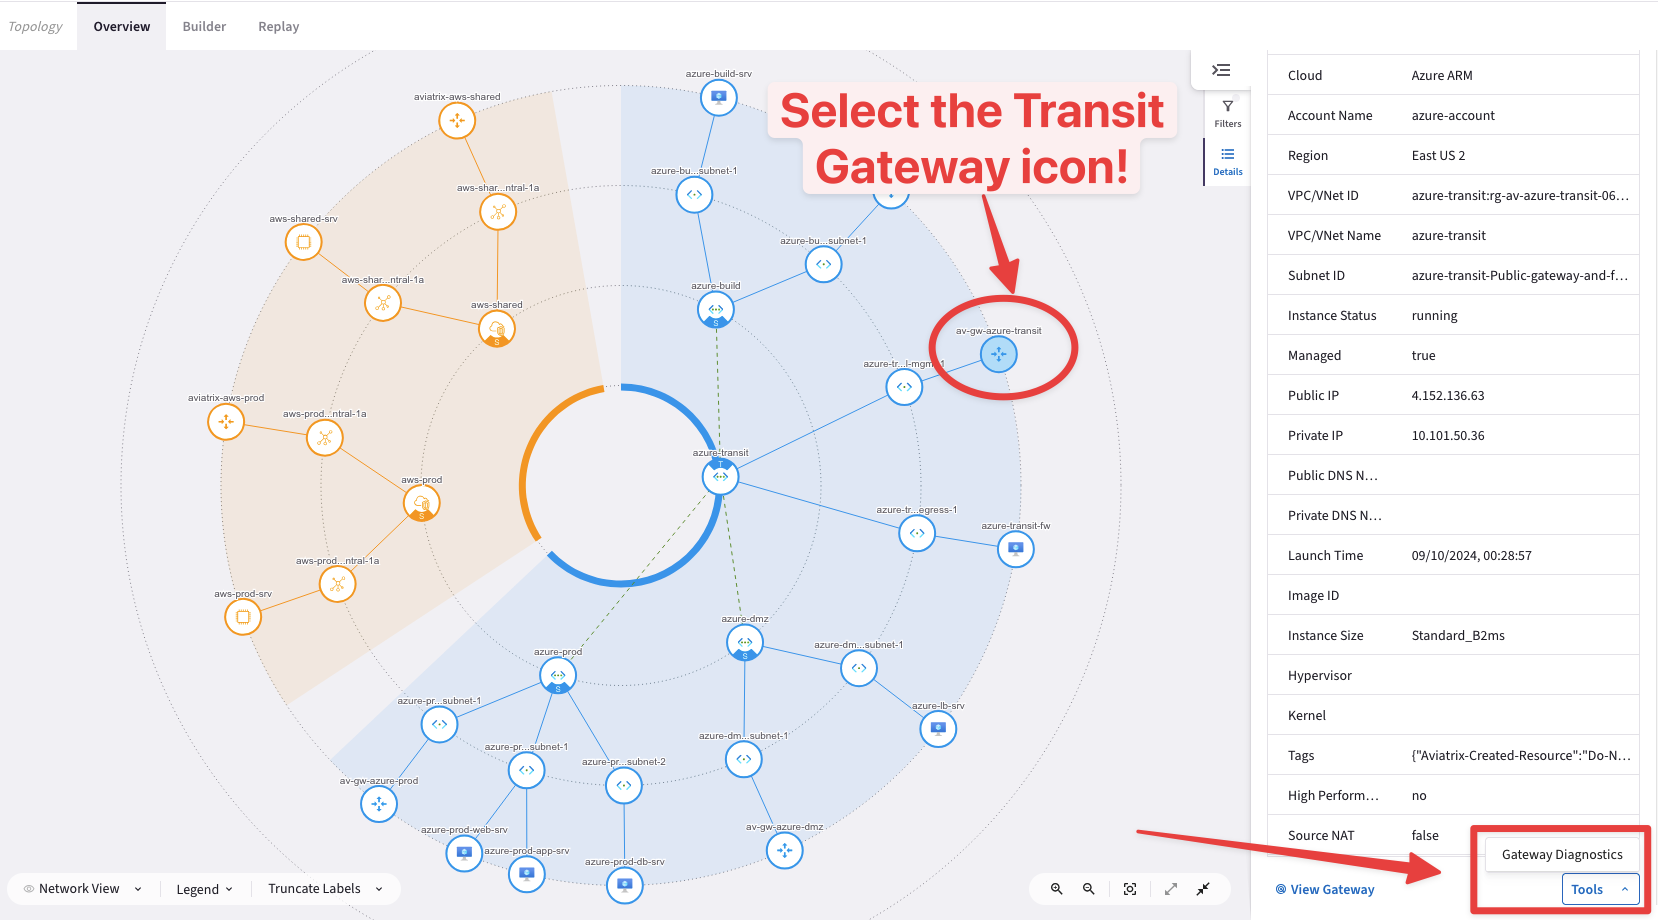
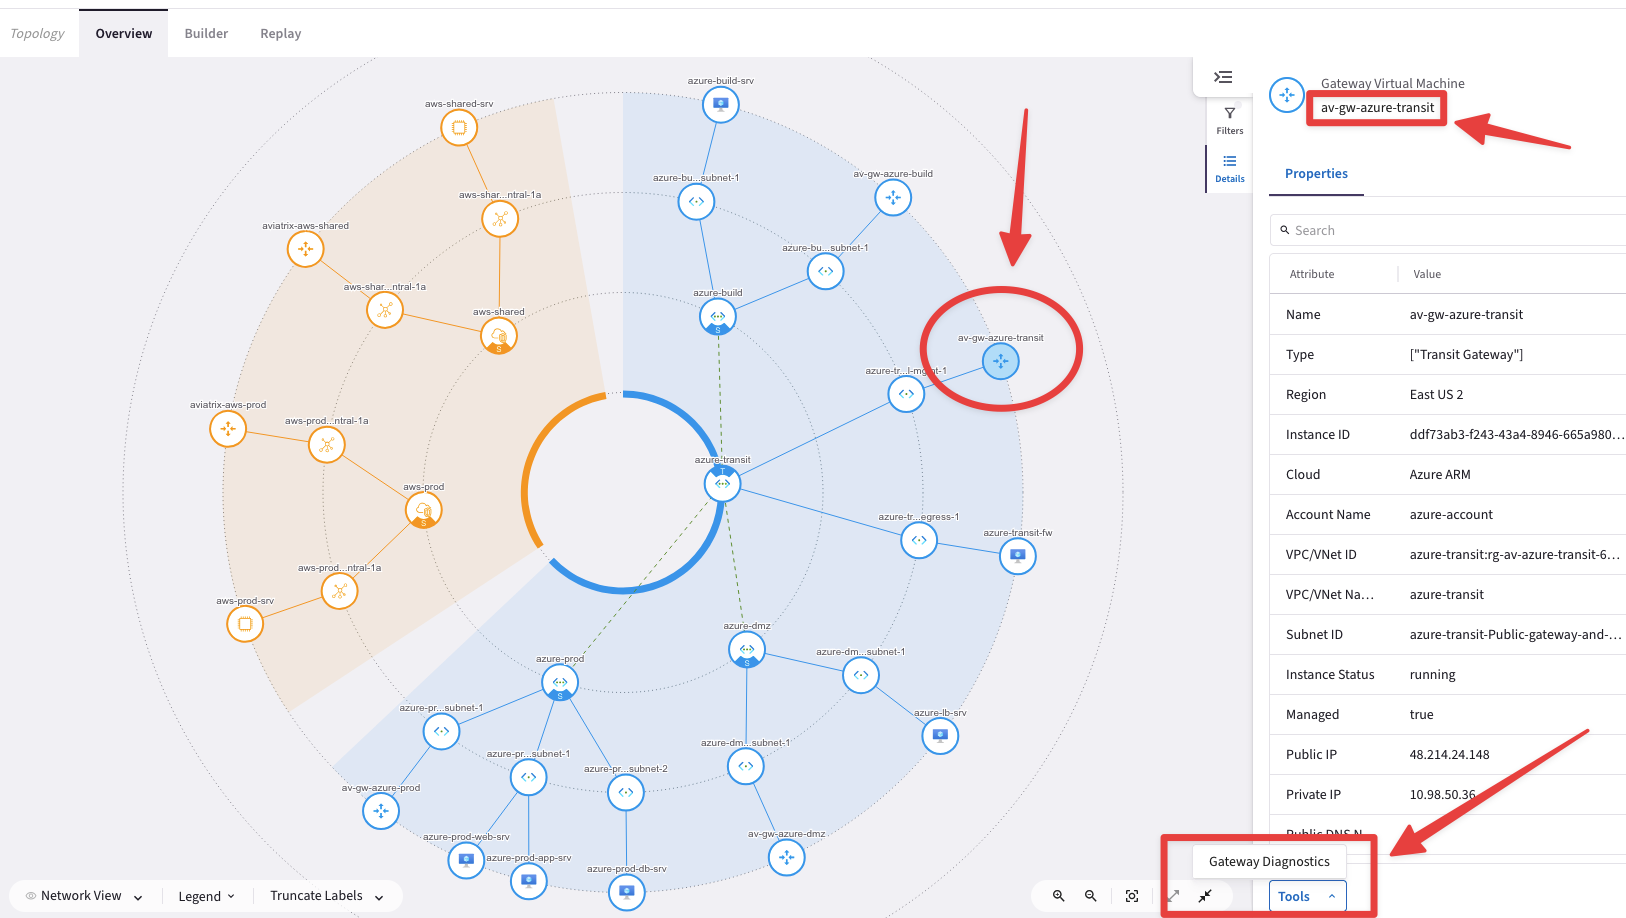
update for associate

diff --git a/ace_associate/docs/lab1.md b/ace_associate/docs/lab1.md
@@ -2,7 +2,7 @@
 
 ## Lab Overview - What's in the lab?
 
-Lab time: ~15 minutes
+Lab time: **~15** minutes
 
 In this lab, we are going to explore our lab environment. The diagram below shows the current state of the lab environment. You will extend this environment during the exercises. The instructor will briefly explain the lab setup in the diagram. You can find a more complete and detailed diagram here.
 
@@ -85,7 +85,7 @@ Initial Topology without the Unmanaged VPCs
 
 As you can see, we have the azure-transit gateway in the middle, with **azure-build**, **azure-dmz** and **azure-prod** spokes connected to it. The AWS VPC's are not yet connected to any transit.
 
-After selecting the Transit Gateway icon, scroll down through all its **Properties** on the right-hand side and click on the **Tools** button, then select the `Gateway Diagnostics`. 
+After selecting the Transit Gateway icon, click on the **Tools** button, then select the `Gateway Diagnostics`. 
 
 Have a look around at the troubleshooting tools here.
 
@@ -114,7 +114,7 @@ In order for the controller to be able to access the different CSP environments,
 
 ### Validate
 
-Take a look at the access accounts already set up. You can see them in Copilot under **_Cloud Resources -> Cloud Account_**.
+Take a look at the access accounts already set up. You can see them in Copilot under **_`Cloud Resources -> Cloud Account`_**.
 
 ### Expected Results
 

diff --git a/ace_associate/docs/home.md b/ace_associate/docs/home.md
@@ -1,8 +1,8 @@
-![Lab Overview](../../docs/_logos/flightschool.png)
+![Lab Overview](../../docs/_logos/ace_associate_banner.png)
 
-# Welcome to Aviatrix Flight School!  
+# Welcome to ACE Associate Lab  
 
-This Lab Guide will guide you through the different parts of Aviatrix Flight School.
+This Lab Guide will guide you through the different parts of the Aviatrix Associate training.
 
 During this hands on deep dive session, you will gain knowledge and experience in these areas:
 
@@ -15,4 +15,4 @@ During this hands on deep dive session, you will gain knowledge and experience i
 
 You are a newly hired cloud engineer for FS Corp. You have been tasked with taking over responsibility for the network from the previous administrator. FS Corp. is already using Aviatrix for connectivity in their primary cloud, Azure. During this workshop you will be extending this deployment to a newly adopted cloud and their office. The newly hired CISO is also imposing some new security requirements on the cloud. After extending the connectivity, you will implement capabilities to meet their security requirements.
 
-Buckle up, we are taking off!
+Let's get started with the lab #1.
